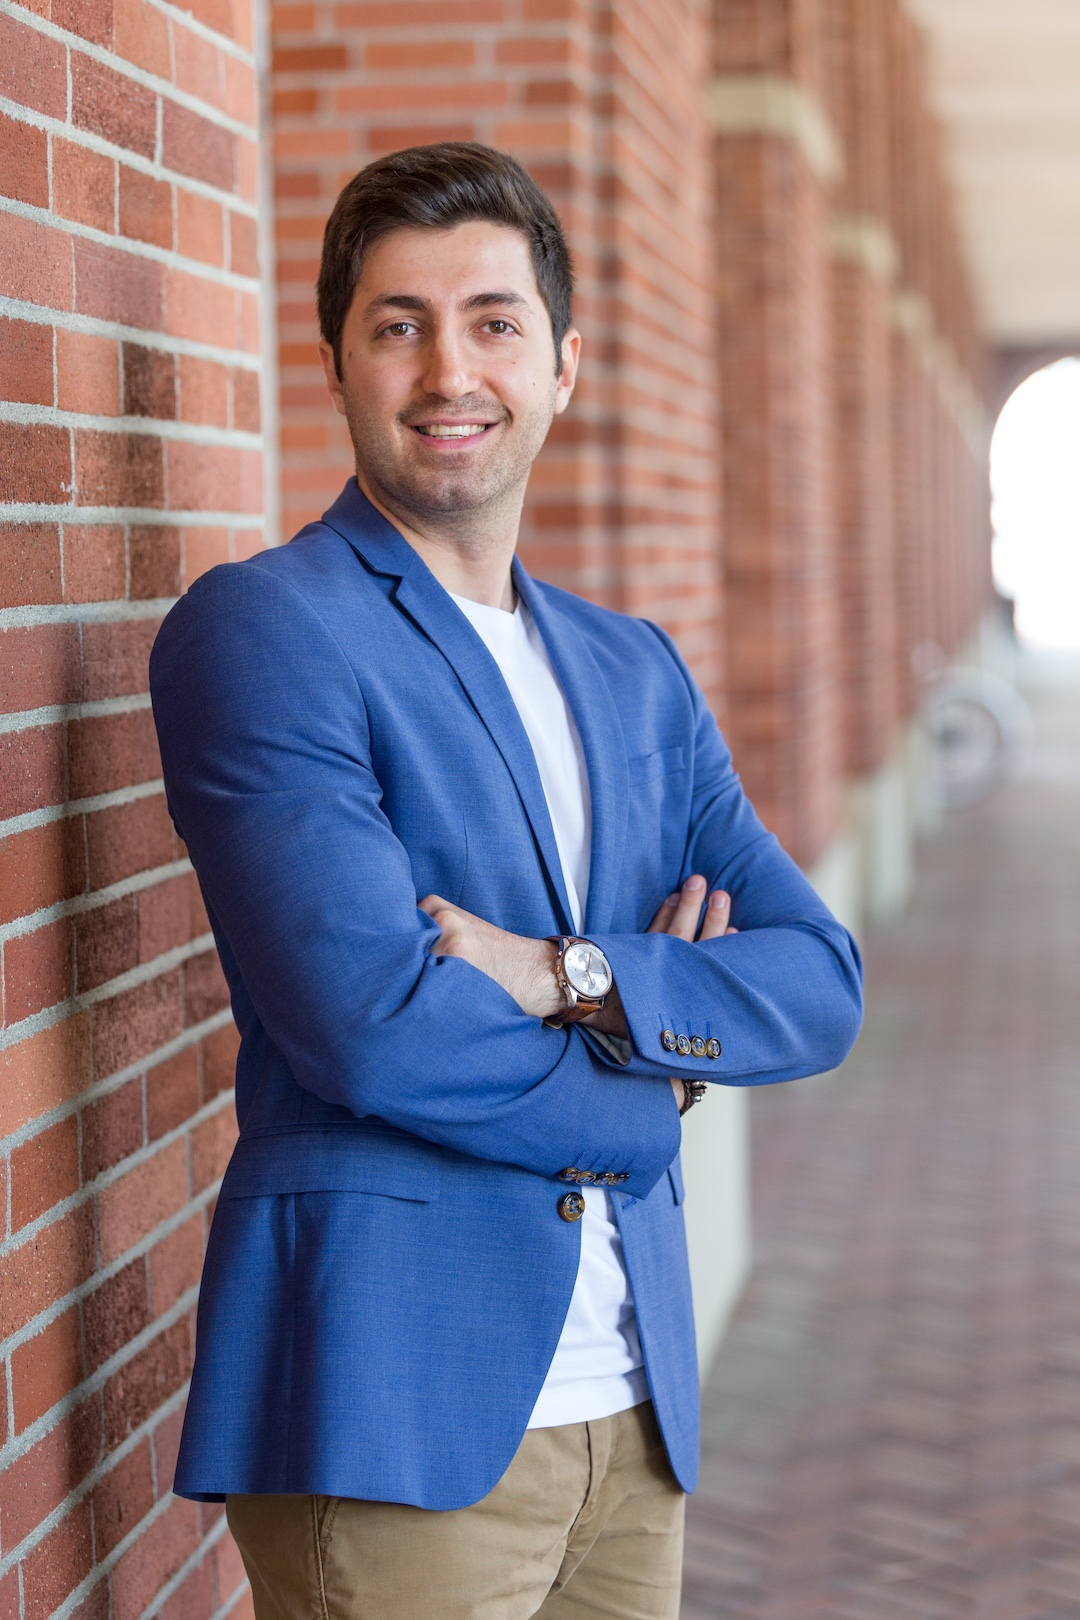
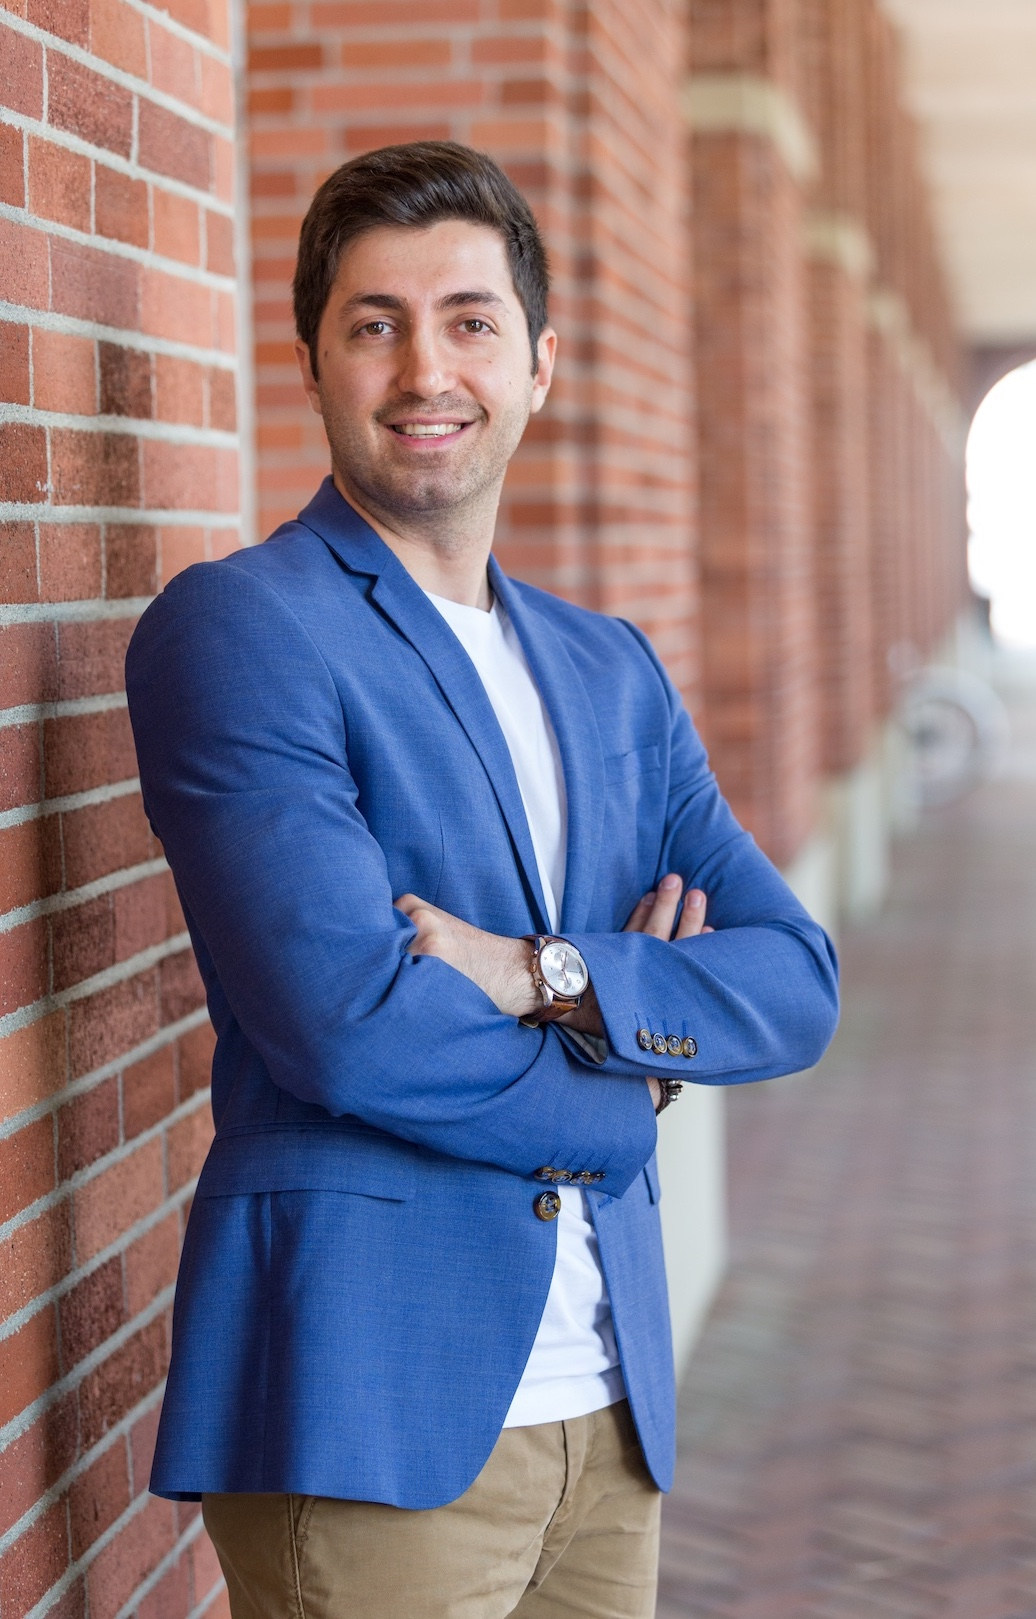
Ali updates his page

diff --git a/marjani/projects.html b/marjani/projects.html
@@ -83,7 +83,7 @@ li a:hover:not(.active) {
 <br />
   <table style="width:100%">
   <tr>
-    <td>  <a href="https://valerolab.org/g2p/"><img src="./assets/nmi_e.png" width="300" height="300" alt="G2P"></a></td>
+    <td>  <a href="https://valerolab.org/g2p/"><img src="./assets/nmi_e.png" width="auto" height="100%" alt="G2P"></a></td>
     <td>  
       <p>
         <h1 style = "font-family:georgia,garamond,serif;font-size:18px;">Bio-inspired Autonomous Robotics:</h1><br />
@@ -93,7 +93,7 @@ li a:hover:not(.active) {
   </tr>
 
   <tr>
-    <td>  <a href="https://link.springer.com/chapter/10.1007/978-3-319-93870-7_2"><img src="./assets/stars_e.png" width="300" height="300" alt="stars"></a></td>
+    <td>  <a href="https://link.springer.com/chapter/10.1007/978-3-319-93870-7_2"><img src="./assets/stars_e.png" width="auto" height="100%" alt="stars"></a></td>
     <td>  
       <p>
         <h1 style = "font-family:georgia,garamond,serif;font-size:18px;">Studying Biological Systems:</h1><br />
@@ -103,7 +103,7 @@ li a:hover:not(.active) {
   </tr>
 
   <tr>
-    <td>  <img src="./assets/applications.gif" width="300" height="300" alt="Biomedical applications gif"></td>
+    <td>  <img src="./assets/applications.gif" width="auto" height="50%" alt="Biomedical applications gif"></td>
     <td>  
       <p>
         <h1 style = "font-family:georgia,garamond,serif;font-size:18px;">Biomedical Applications:</h1><br />

diff --git a/marjani/index.html b/marjani/index.html
@@ -79,10 +79,10 @@ li a:hover:not(.active) {
 
 
 
-<img src="./assets/full_small.jpg" alt="Ali Marjaninejad"  style="float:left;width:420px;height:625px;">
+<img src="./assets/full_small.jpg" alt="Ali Marjaninejad"  style="float:left;width:40%;height:auto;">
 <div class="relative">
-<iframe width="550" height="310" src="https://www.voanews.com/media/2047626/embed" frameborder="0" allow="accelerometer; autoplay; encrypted-media; gyroscope; picture-in-picture" allowfullscreen></iframe>
-<iframe width="550" height="310" src="https://www.youtube.com/embed/oe8tgMMdpqg" frameborder="0" allow="accelerometer; autoplay; encrypted-media; gyroscope; picture-in-picture" allowfullscreen></iframe>
+<iframe width="57%" height="310" src="https://www.voanews.com/media/2047626/embed" frameborder="0" allow="accelerometer; autoplay; encrypted-media; gyroscope; picture-in-picture" allowfullscreen></iframe>
+<iframe width="57%" height="310" src="https://www.youtube.com/embed/oe8tgMMdpqg" frameborder="0" allow="accelerometer; autoplay; encrypted-media; gyroscope; picture-in-picture" allowfullscreen></iframe>
 <h1>Ali Marjaninejad</h1>
 <p style = "font-family:georgia,garamond,serif;font-size:20px;font-style:italic;">
          I am a researcher with interests in Artificial Intelligence, Biology, and the full spectrum between these two!

diff --git a/marjani/publications.html b/marjani/publications.html
@@ -83,9 +83,9 @@ li a:hover:not(.active) {
 <br />
   <table style="width:100%">
   <tr>
-    <th>  <a href="https://scholar.google.com/citations?user=yoAFOfUAAAAJ&hl=en&oi=ao"><img src="./assets/google_scholar_logo.png" width="300" height="85" title="Google Scholar Profile" alt="Google Scholar Profile"></a></th>
-    <th>  <a href="https://publons.com/researcher/3044511/ali-marjaninejad/"><img src="./assets/publons_logo.png" width="280" height="75" title="Publons Profile" alt="Publons Profile"></a></th>
-    <th>  <a href="http://orcid.org/0000-0001-6943-151X"><img src="./assets/orcid_logo.png" width="300" height="85" title="Orcid Profile" alt="Orcid Profile"></a></th>
+    <th>  <a href="https://scholar.google.com/citations?user=yoAFOfUAAAAJ&hl=en&oi=ao"><img src="./assets/google_scholar_logo.png" width="90%" height="auto" title="Google Scholar Profile" alt="Google Scholar Profile"></a></th>
+    <th>  <a href="https://publons.com/researcher/3044511/ali-marjaninejad/"><img src="./assets/publons_logo.png" width="45%" height="auto" title="Publons Profile" alt="Publons Profile"></a></th>
+    <th>  <a href="http://orcid.org/0000-0001-6943-151X"><img src="./assets/orcid_logo.png" width="100%" height="auto" title="Orcid Profile" alt="Orcid Profile"></a></th>
   </tr>
 </table>
 

diff --git a/marjani/cv_resume.html b/marjani/cv_resume.html
@@ -83,8 +83,8 @@ li a:hover:not(.active) {
 <br />
   <table style="width:100%">
   <tr>
-    <th>  <a href="./assets/resume.PDF"><img src="./assets/resume.png" width="256" height="256" title="resume" alt="resume"></a></th>
-    <th>  <a href="./assets/cv.PDF"><img src="./assets/cv.png" width="256" height="256" title="cv" alt="cv"></a></th>
+    <th>  <a href="./assets/resume.PDF"><img src="./assets/resume.png" width="25%" height="auto" title="resume" alt="resume"></a></th>
+    <th>  <a href="./assets/cv.PDF"><img src="./assets/cv.png" width="25%" height="auto" title="cv" alt="cv"></a></th>
   </tr>
 </table>
 

diff --git a/marjani/on_the_news.html b/marjani/on_the_news.html
@@ -77,7 +77,7 @@ li a:hover:not(.active) {
   <li><a href="contact.html">Contact</a></li>
 </ul>
 
-<a href="https://valerolab.org/g2p/"><img src="./assets/nmi_banner.jpg" width="1000" height="286" title="G2P" alt="G2P"></a></td>
+<a href="https://valerolab.org/g2p/"><img src="./assets/nmi_banner.jpg" width="100%" height="auto" title="G2P" alt="G2P"></a></td>
 <h1 style = "font-family:georgia,garamond,serif;font-size:30px;">Below is a list of my news mentions</h1>
 <h2>&#8226; News mentions related to the bio-plausible, autonomous robotics project  </h2>
 <h3>In English</h3>

diff --git a/marjani/contact.html b/marjani/contact.html
@@ -79,7 +79,7 @@ li a:hover:not(.active) {
 
 
 
-<img src="./assets/contact_profile_pic.jpeg" alt="Ali Marjaninejad"  style="float:left;width:400;height:600px;">
+<img src="./assets/contact_profile_pic.jpeg" alt="Ali Marjaninejad"  style="float:left;width:45%;height:auto;">
 <br />
 <p style = "font-family:georgia,garamond,serif;font-size:20px;font-style:italic;"><br />
         &nbsp;   Ronald Tutor Hall, RTH-421<br /><br />
